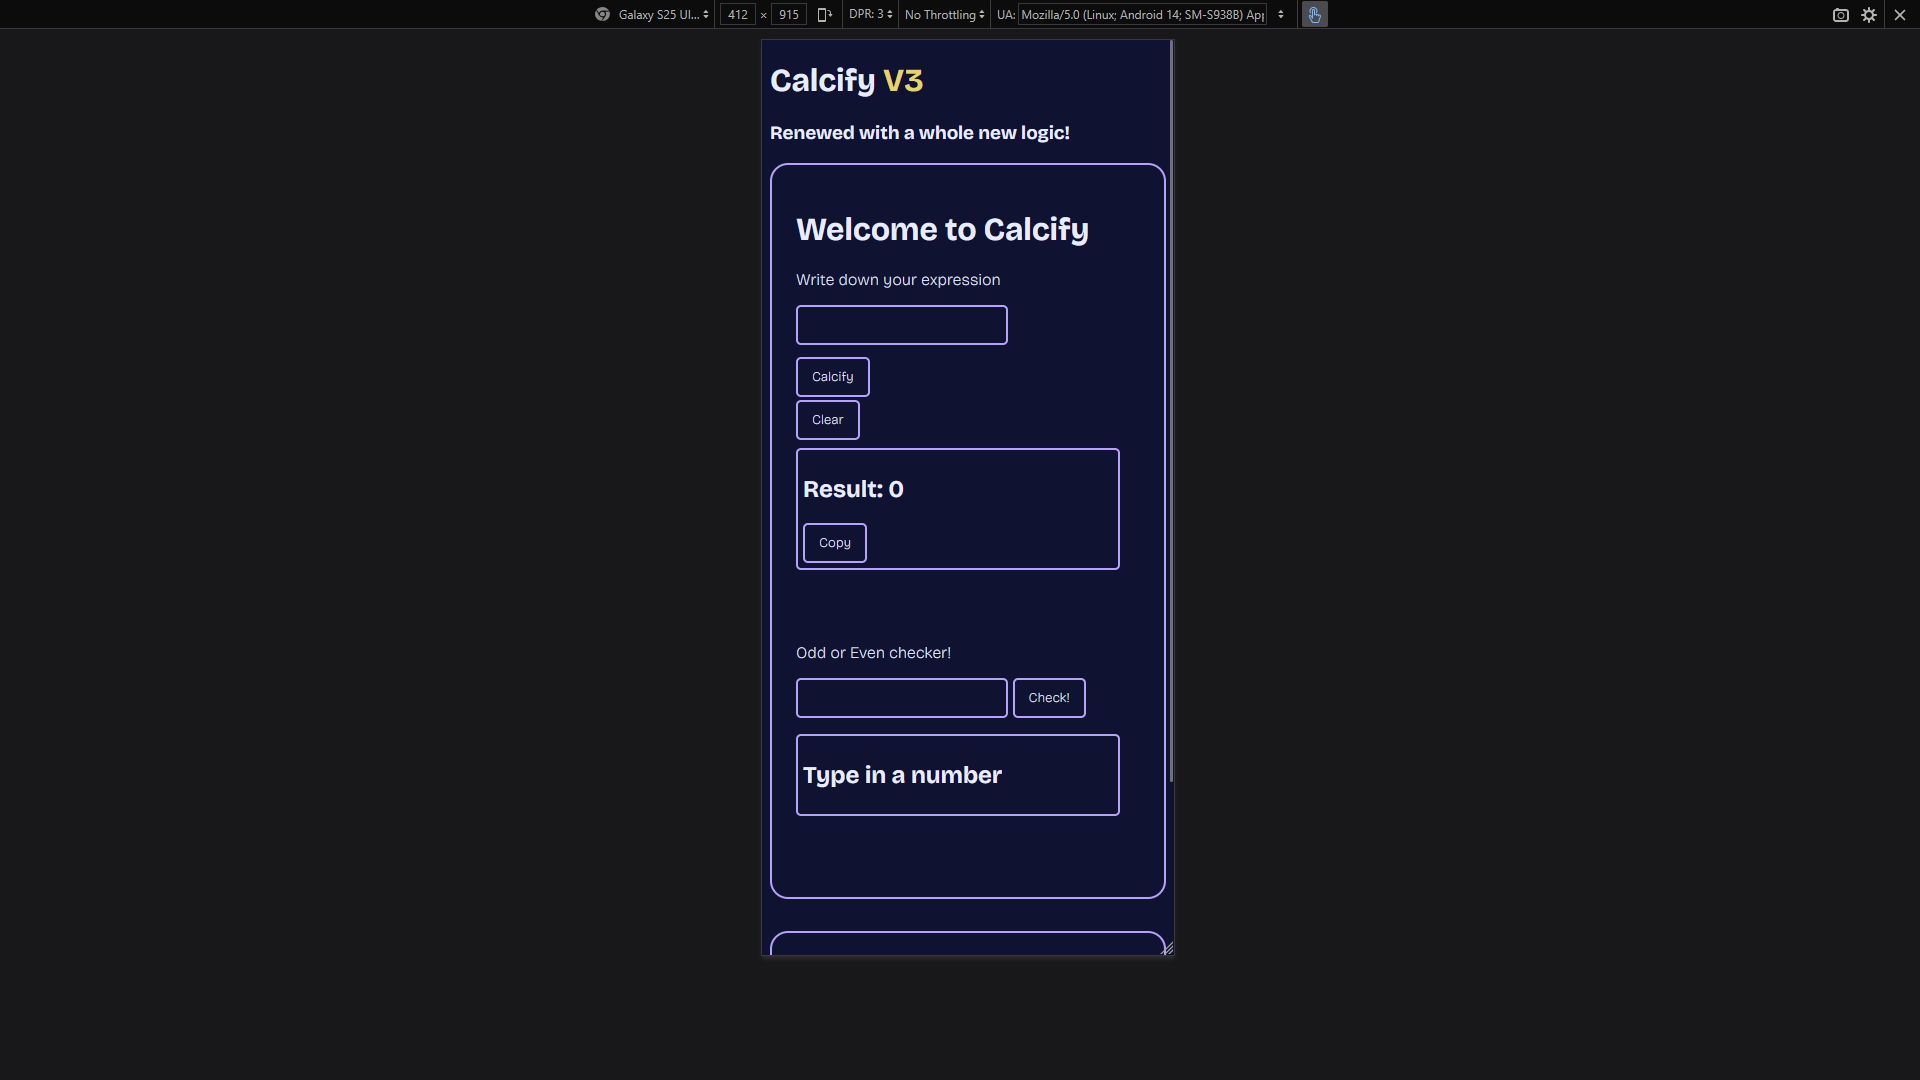
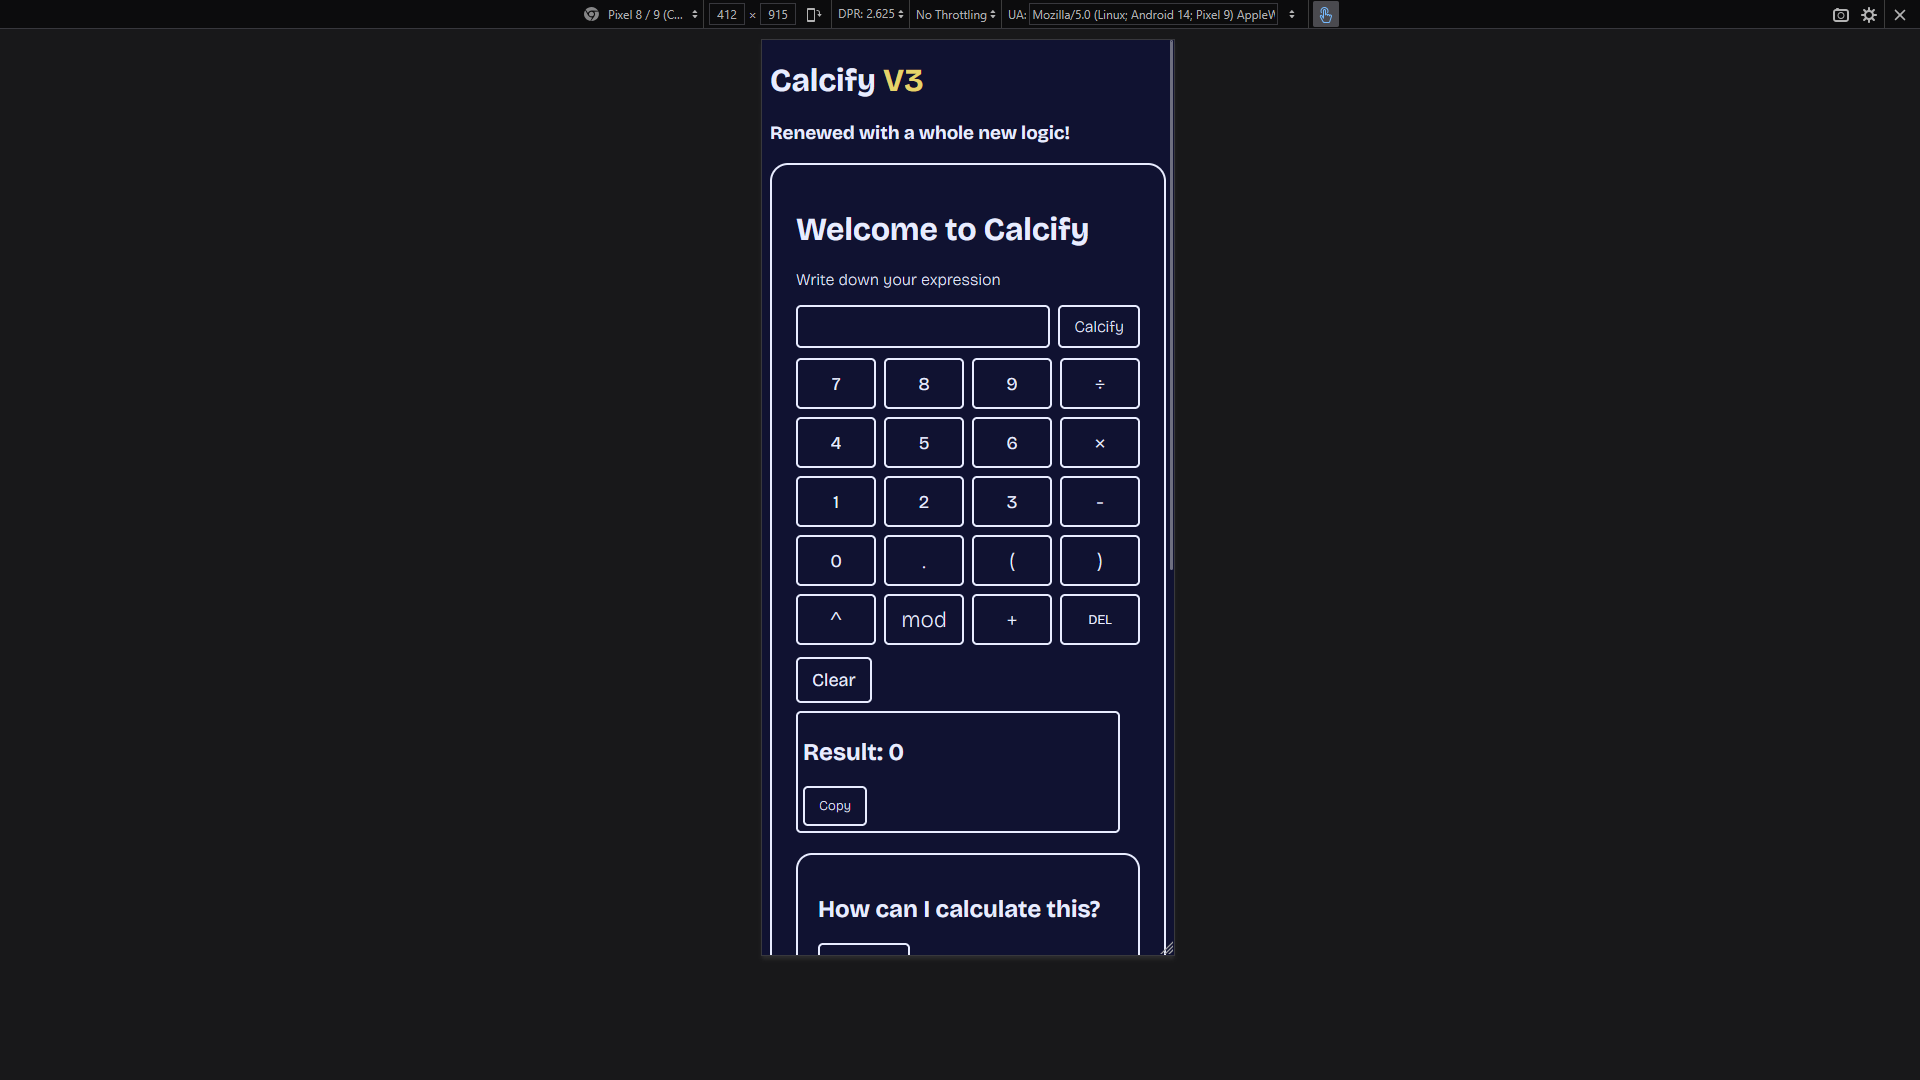
Updated md's and new mobile experience image

Changed region(s): [[0.4062, 0.275, 0.5938, 0.7944], [0.3125, 0.0, 0.7188, 0.0306], [0.4062, 0.825, 0.5938, 0.8861]]

diff --git a/ROADMAP.md b/ROADMAP.md
@@ -4,7 +4,7 @@
 - [x] Review current engine
 - [x] Map existing operations
 - [x] Fix known bugs
-- ~~[ ] Refactor duplicated logic~~
+- [x] Refactor duplicated logic
 - [x] Improve validations
 - [x] Test every operation (tried to lol)
 - [x] Final engine cleanup
@@ -29,7 +29,7 @@
 - [x] Improve mobile navigation
 - [x] Test tablet layout
 - [x] Test small-screen layout
-- [ ] Improve accessibility
+- [x] Improve accessibility
 - [ ] Add keyboard navigation/focus states
 - [ ] Add page metadata/favicon
 - [x] Add smooth section navigation

diff --git a/README.md b/README.md
@@ -103,6 +103,8 @@ A full on hub for Calcify engine.
 
 Made **Fast Tools**, a tiny hub including Calcify, Even or Odd, and Terra Tracker, and to be added more tools, reviewed acessibility, and separated Even or Odd from Calcify
 
+Also reviewed Calcify itself, adding acessibility and more mobile integration. (also new css)
+
 ## Fast Tools Visual Identity
 
 - Dark navy background
